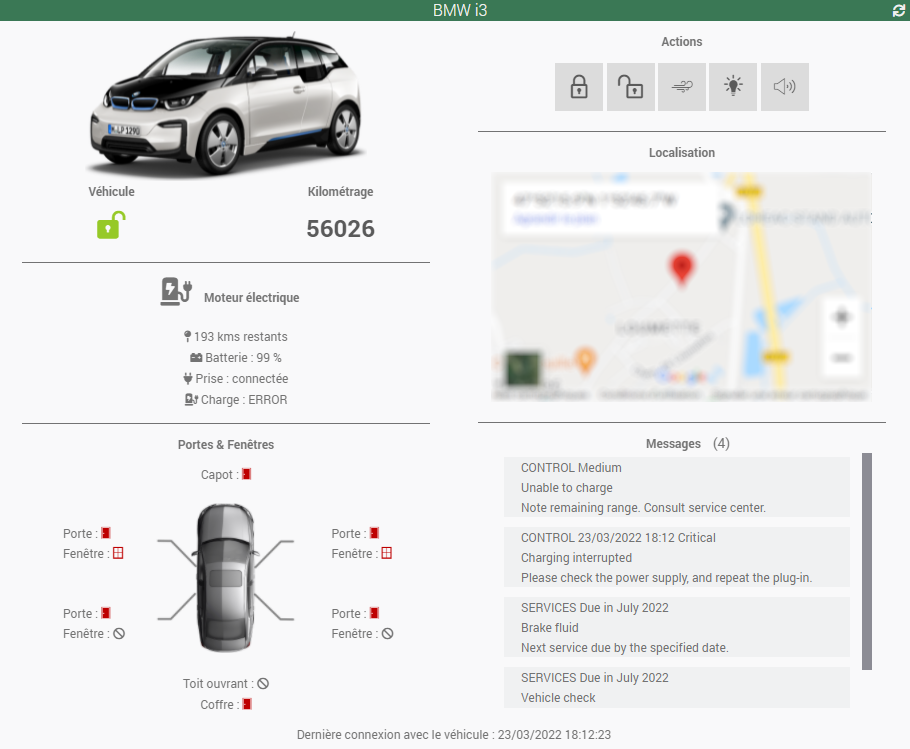
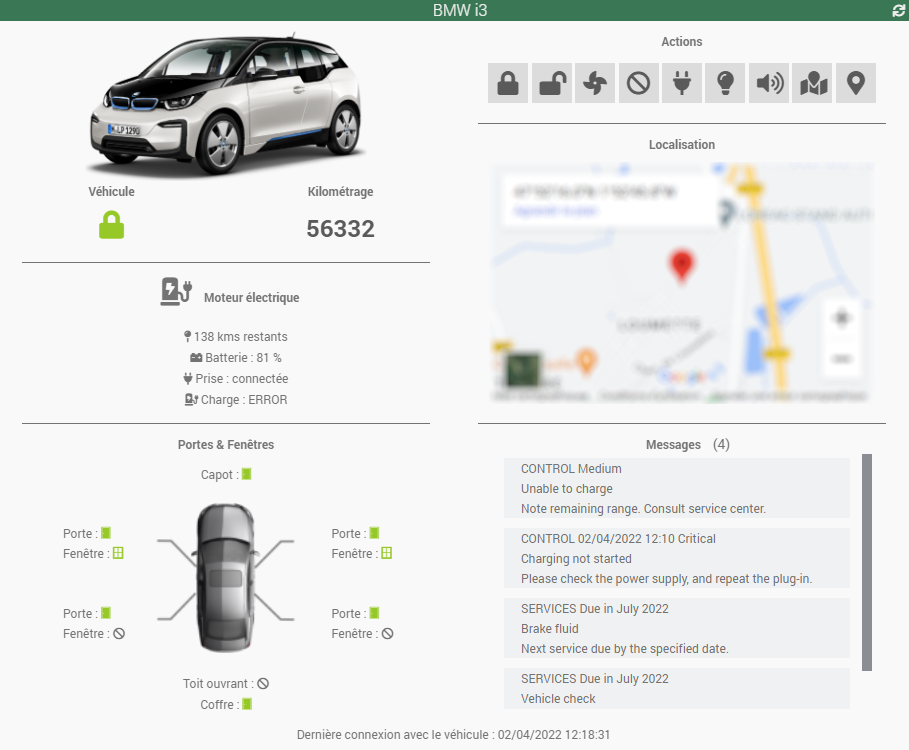
Update doc myBMW

diff --git a/myBMW/fr_FR/index.md b/myBMW/fr_FR/index.md
@@ -116,6 +116,15 @@ Il existe actuellement plusieurs commandes qui sont décrites ci-dessous.
 -   **Messages** : remonte les messages affichés dans le véhicule (contrôle et services)
 -   **Coordonnées GPS** : remonte la position du véhicule sour la forme "latitude,longitude"
 -   **Dernière mise à jour** : donne la date et l'heure de la dernière connexion entre la voiture et les serveurs BMW
+-   **Statut Déverrouiller** : renvoie le dernier statut recu lors d'une demande de déverrouillage. Si l'action a correctement été effectuée, le statut passe à de "PENDING" à "EXECUTED". Sinon renvoie "ERROR"
+-   **Statut Verrouiller**
+-   **Statut Déverrouiller**
+-   **Statut Ventiler**
+-   **Statut Stop Ventiler**
+-   **Statut Appel de phares**
+-   **Statut Klaxonner**
+-   **Statut Rechercher**
+-   **Statut Envoi POI**
 
 
 ## Action
@@ -126,11 +135,17 @@ Il existe actuellement plusieurs commandes qui sont décrites ci-dessous.
 
 -   **Déverrouiller** : permet de déverrouiller la voiture à distance
 
--   **Climatiser** : permet de démarrer le système de ventilation à la température réglée dans le véhicule
+-   **Ventiler (Start)** : permet de démarrer le système de ventilation à la température réglée dans le véhicule
+
+-   **Ventiler (Stop)** : permet de démarrer le système de ventilation à la température réglée dans le véhicule
 
 -   **Appel de phares** : déclenche un appel de phare
 
 -   **Klaxonner** : déclenche un avertissement sonore
+
+-   **Rechercher** : localise le véhicule en temps réel et l'affiche sur une carte googlemaps
+
+-   **Envoi POI** : envoi d'un point d'intérêt (POI) dans le centre de messages du véhicule en saisissant le nom, la latitude et la longitude du lieu
 
 
 # Dashboard
@@ -163,7 +178,6 @@ Ce plugin évoluera au fil du temps en fonction de vos demandes et des possibili
 Les prochaines versions verront arriver les features suivantes :
 
 -   Ajout des fonctions de démarrage et d'arrêt de la charge des véhicules électriques de la marque
--   Ajout de la fonction de récupération en temps réel de la position du véhicule
 -   ...
 -   Traduction du plugin en anglais
 

diff --git a/myBMW/fr_FR/changelog.md b/myBMW/fr_FR/changelog.md
@@ -12,6 +12,21 @@ pluginId: myBMW
 **Remarque** : en cas de mise à jour non listée ici, c'est que celle-ci ne comporte que des changements mineurs du type documentation ou corrections de bugs mineurs.
 
 
+# 2022-04-11
+
+Ajout des fonctions suivantes :
+ - Ventilation : ajout des modes start / stop
+ - Recherche véhicule : localisation du véhicule en temps réel
+ - Fonction envoi d'un POI dans les messages de la voiture
+ - Test du statut de chaque action pendant 2 minutes ("PENDING" -> "EXECUTED" ou "ERROR") 
+ - Ajout des commandes "Status" pour chaque commande action (pour suivi via scénario)
+ - Changement des icones actions
+ 
+Corrections suivantes :
+ - Bugfix affichage prise déconnectée si valeur false au lieu de 0 sur véhicule électrique
+ - optimisation du code
+
+
 # 2022-03-28
 
 Première version du plugin myBMW
